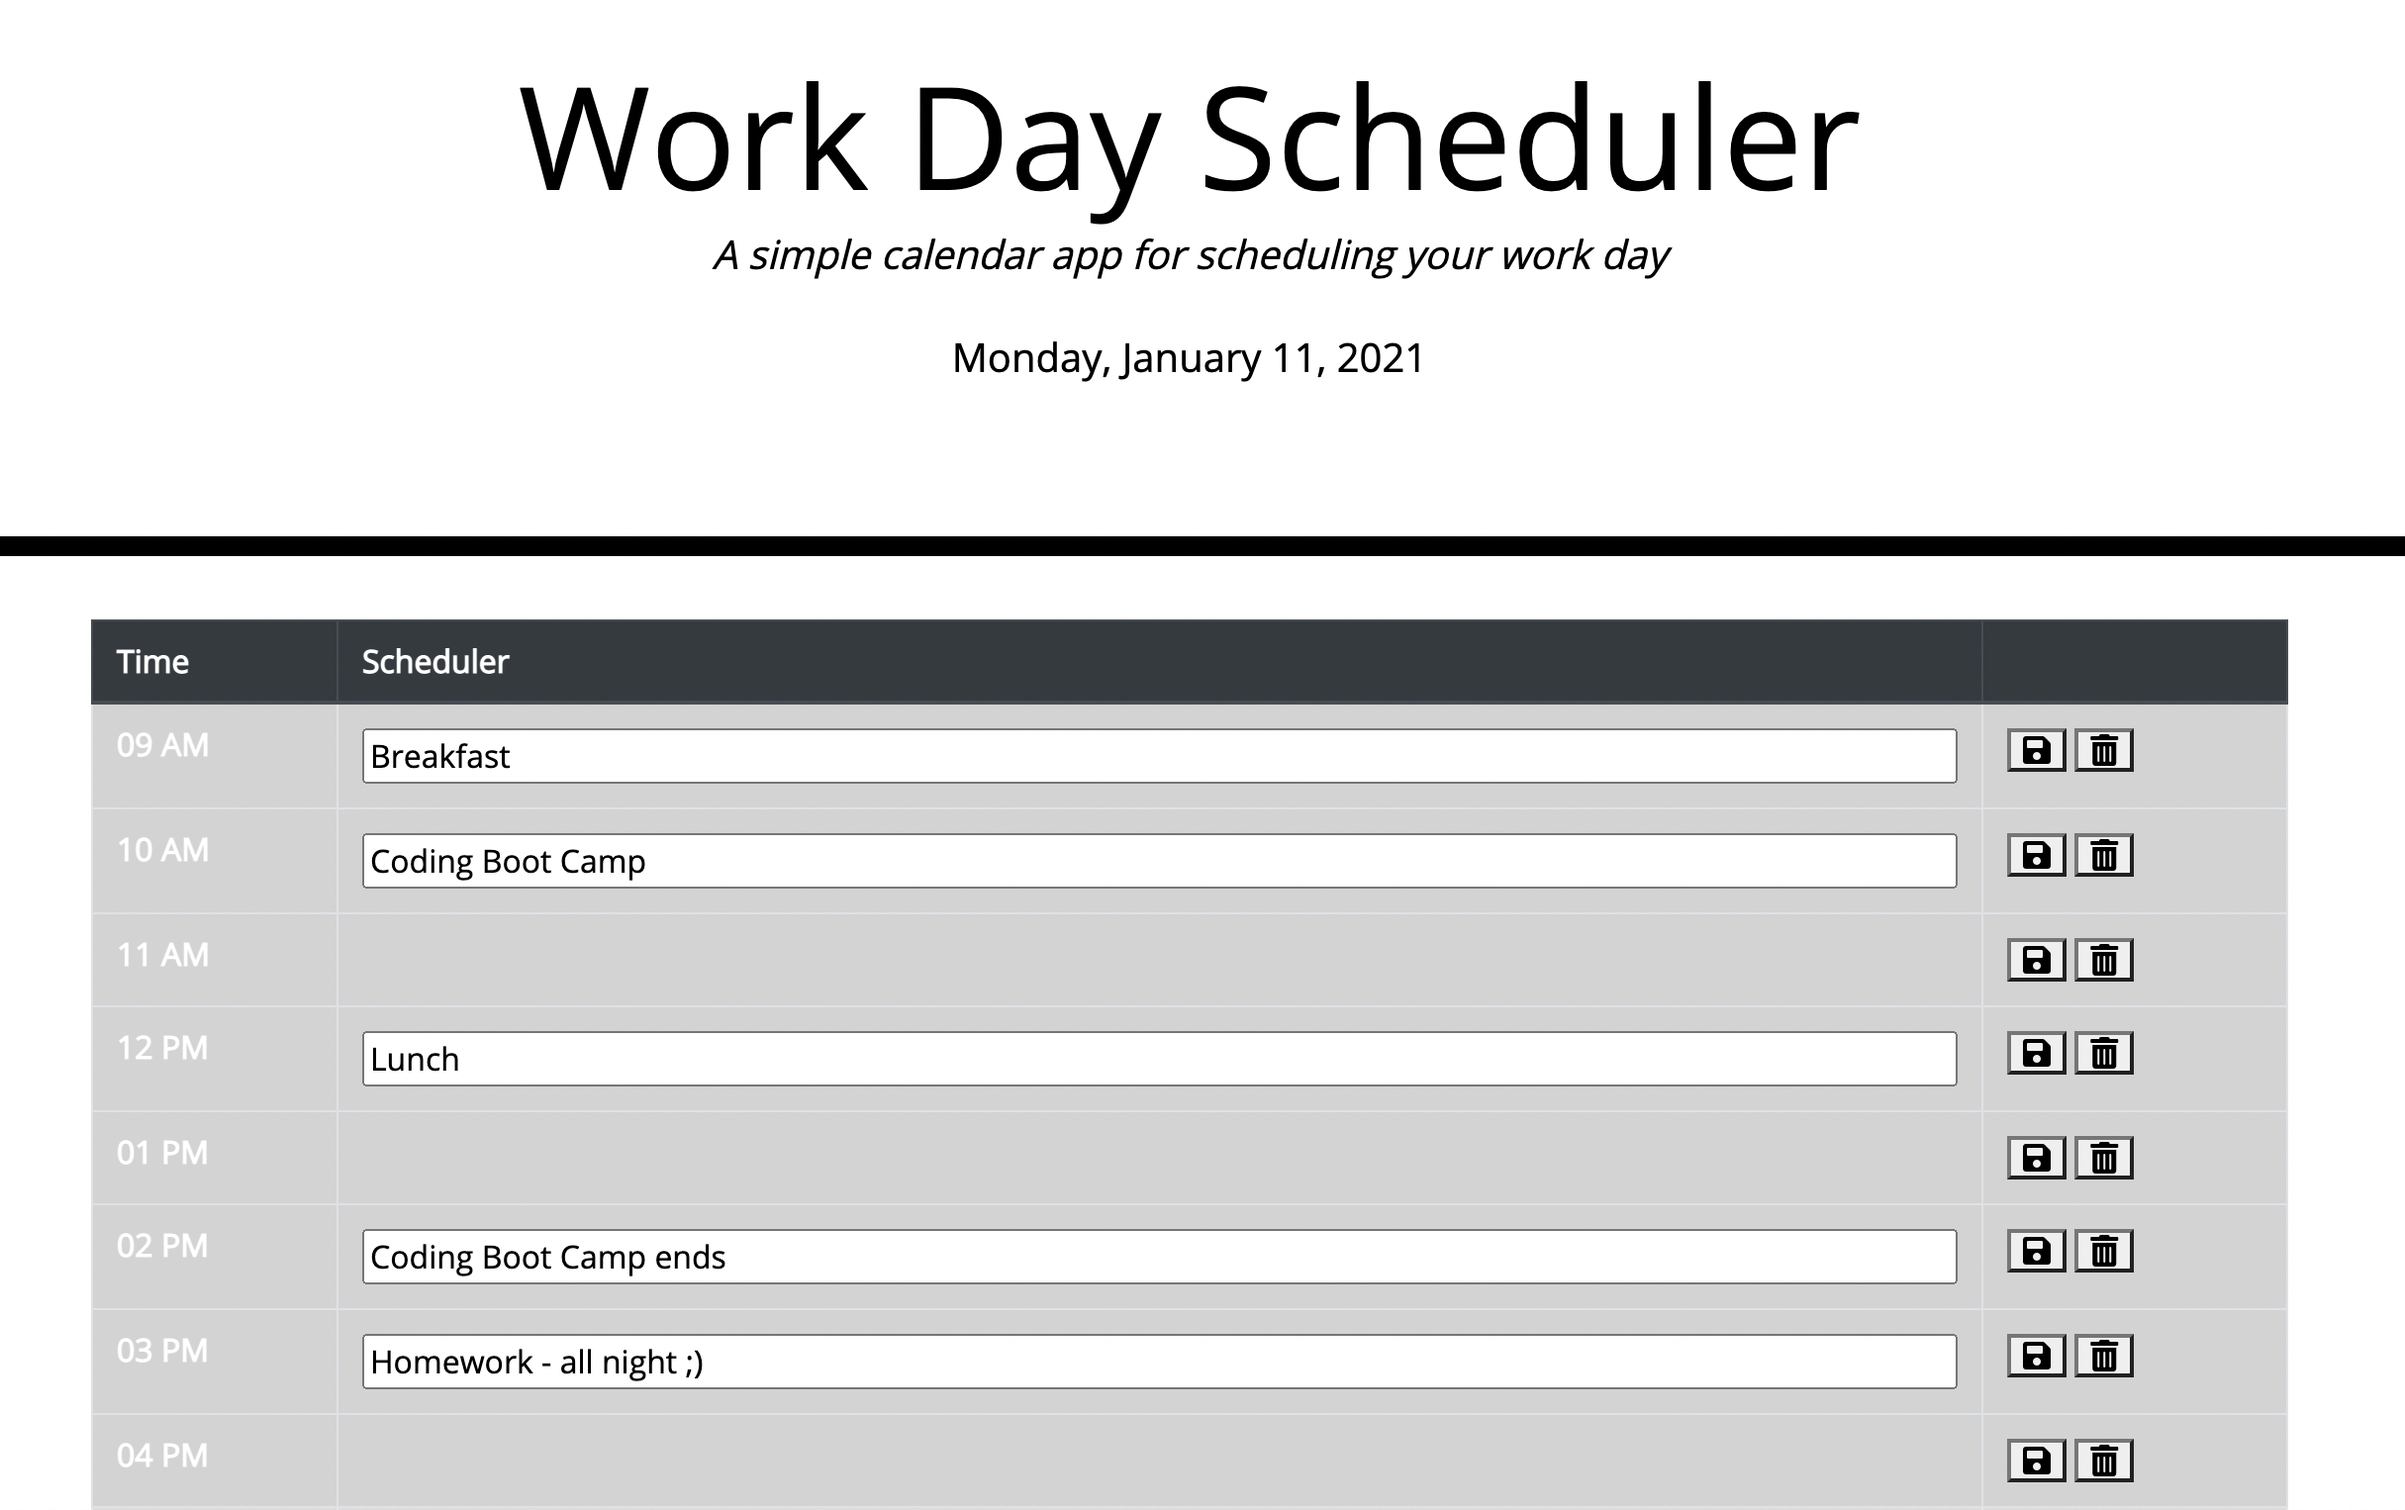
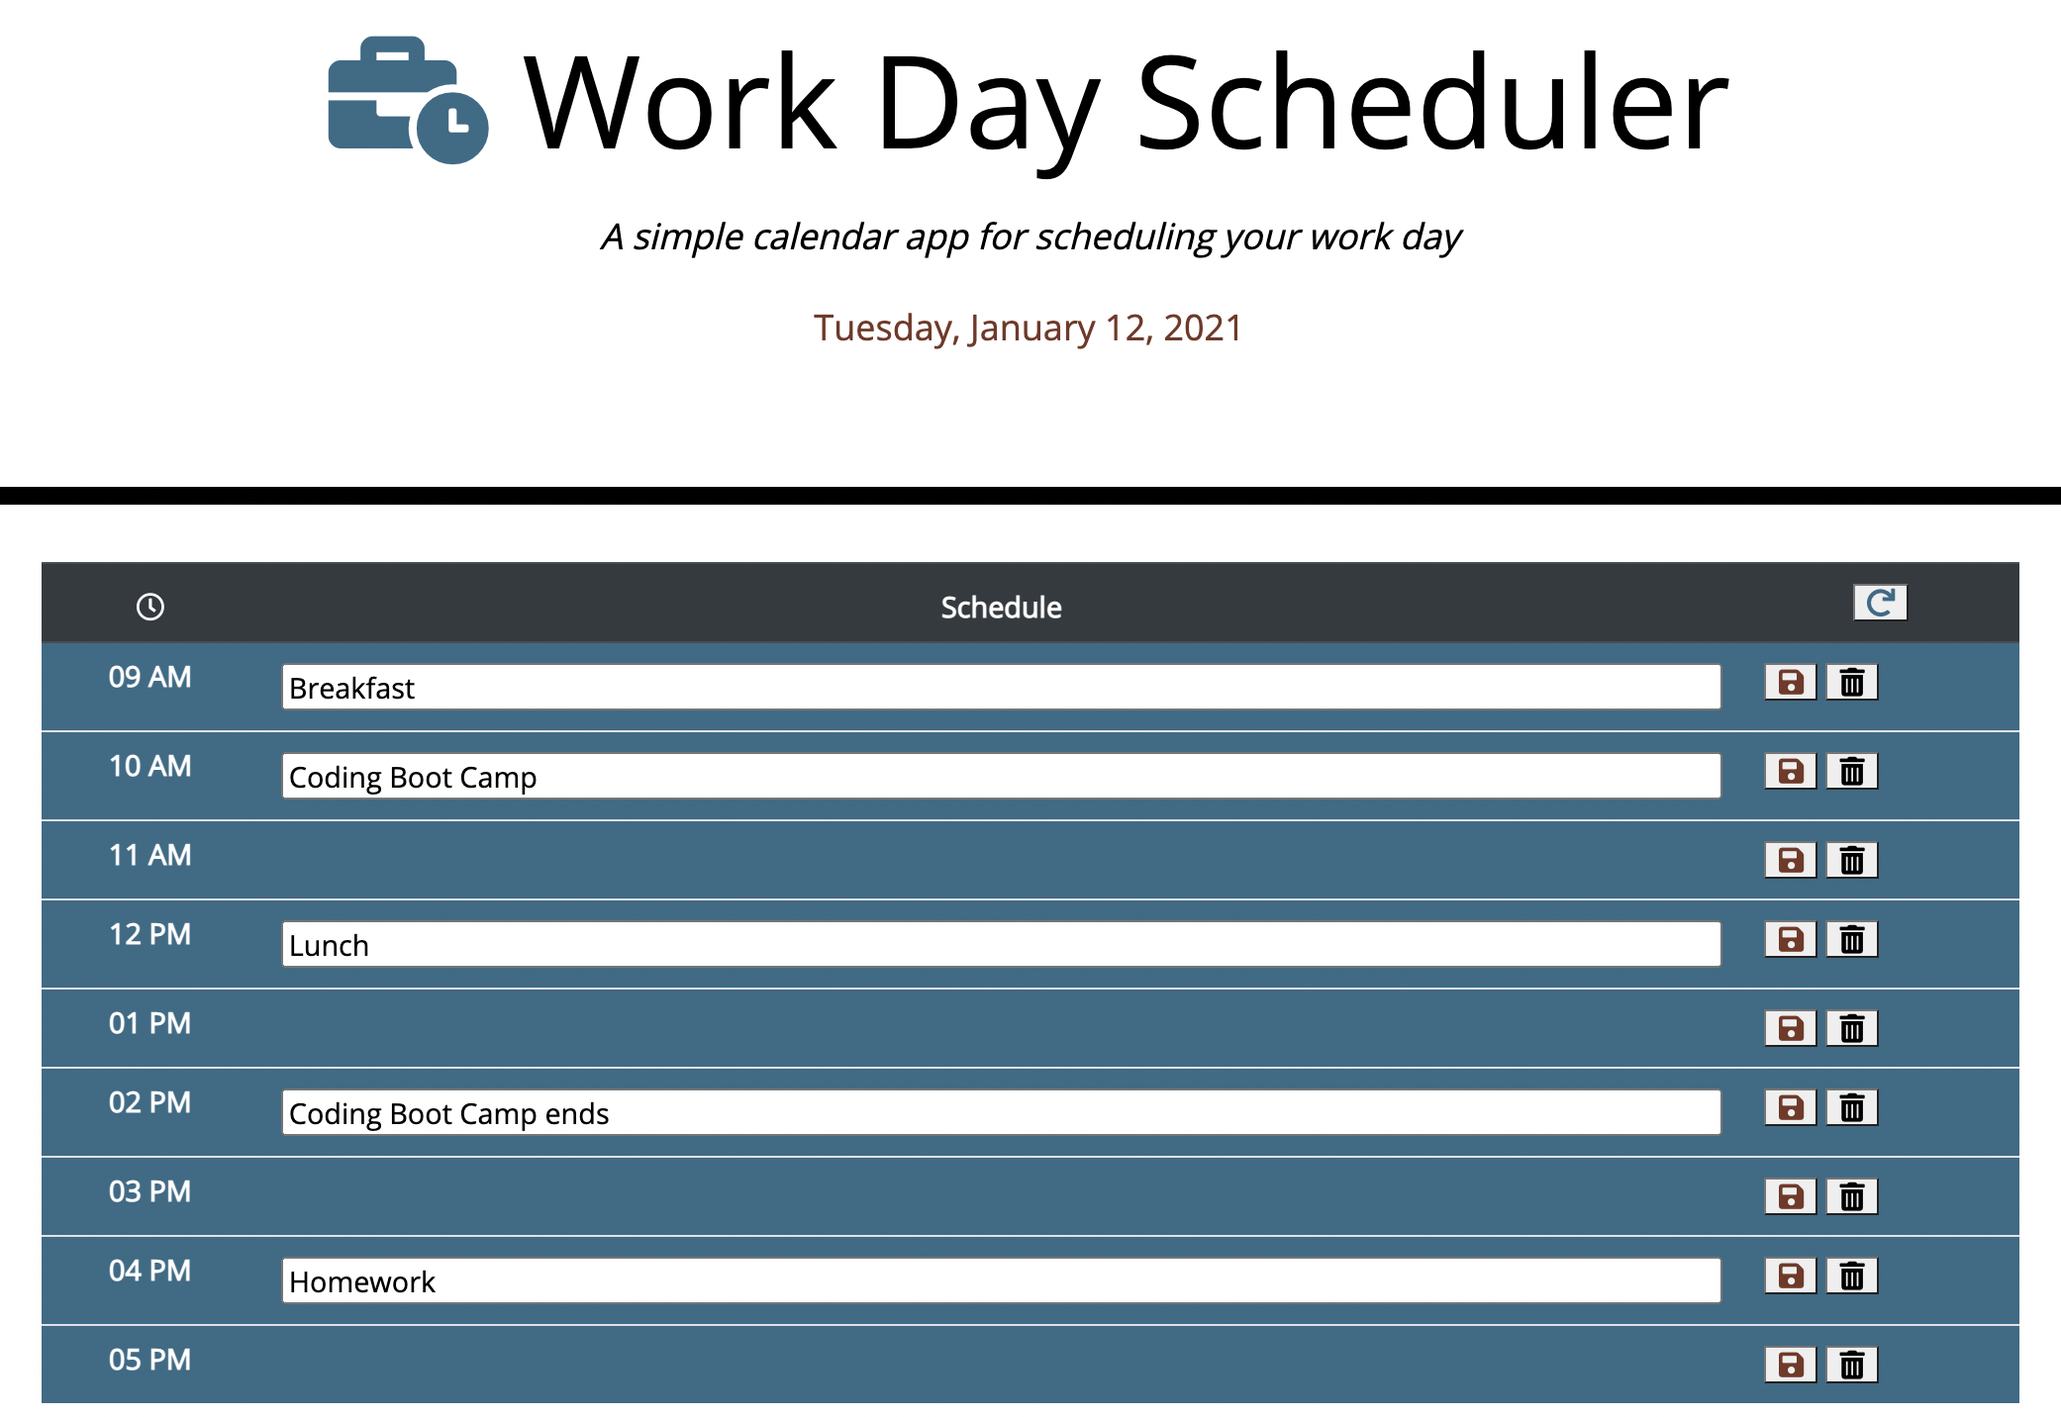
finishing aesthetic touches

diff --git a/index.html b/index.html
@@ -24,23 +24,19 @@
 
   <body>
     <header class="jumbotron">
-      <h1 class="display-3">Work Day Scheduler</h1>
+      <h1 class="display-3"><i class="fas fa-business-time"></i> Work Day Scheduler</h1><br>
       <p class="lead"><i>A simple calendar app for scheduling your work day</i></p><br>
-      <p id="currentDay" class="lead"></p><br>
-      <p>Click on an hour to reveal a text input where you can describe an event. Click on save to 
-        store your scheduled activity for future reference. Click on delete to remove it. The scheduler 
-        will highlight hours past, present and future to help you plan your work day. Any unsaved events 
-        will be cleared to keep your calendar nice and organized.</p>
+      <p id="currentDay" class="lead"></p>
     </header>
     <div class="container">
       <!-- Timeblocks go here -->
       <div class="table-responsive-sm">
-        <table class="table table-hover table-bordered">
+        <table class="table table-hover">
           <thead class="thead-dark">
             <tr>
-              <th class="w-auto" scope="col">Time</th>
-              <th class="w-75" scope="col">Scheduler</th>
-              <th class="w-auto" scope="col"></th>
+              <th class="w-auto" scope="col"><i class="far fa-clock"></i></th>
+              <th class="w-75" scope="col">Schedule</th>
+              <th class="w-auto" scope="col"><button id="reset"><i class="fas fa-redo"></i></button></th>
             </tr>
           </thead>
           <tbody>

diff --git a/assets/style.css b/assets/style.css
@@ -13,8 +13,36 @@ textarea {
   padding: 10px;
 }
 
+/* icons */
 i {
   margin: auto;
+}
+/* table headers */
+th {
+  text-align: center;
+}
+/* tables text except for calendar events */
+th .w-auto {
+  text-align: center;
+}
+
+/* Scheduler icon */
+.fas.fa-business-time {
+  color: #336B87;
+}
+
+/* Delete button */
+button.save {
+  color: #763626;
+}
+
+/* reset button */
+button#reset {
+    color: #336B87;
+}
+
+#currentDay {
+  color: #763626;
 }
 
 .jumbotron {
@@ -47,17 +75,17 @@ i {
 }
 
 .past {
-  background-color: #d3d3d3;
+  background-color: #90AFC5;
   color: white;
 }
 
 .present {
-  background-color: #ff6961;
+  background-color: #763626;
   color: white;
 }
 
 .future {
-  background-color: #77dd77;
+  background-color: #336B87;
   color: white;
 }
 

diff --git a/assets/script.js b/assets/script.js
@@ -56,7 +56,6 @@ $(document).ready(function() {
                     events.push($activity);
                     // Save events array on local storage
                     localStorage.setItem("events", JSON.stringify(events));
-                    location.reload();
                 }
             }
         } 
@@ -81,11 +80,15 @@ $(document).ready(function() {
                     events.splice(i, 1);
                     // Push the new array to local storage
                     localStorage.setItem("events", JSON.stringify(events));
-                    location.reload();
                 }
             }
             
         }
+    });
+
+    // Delete button
+    $("button#reset").on("click", function(event) {
+        location.reload();
     });
 
 });
